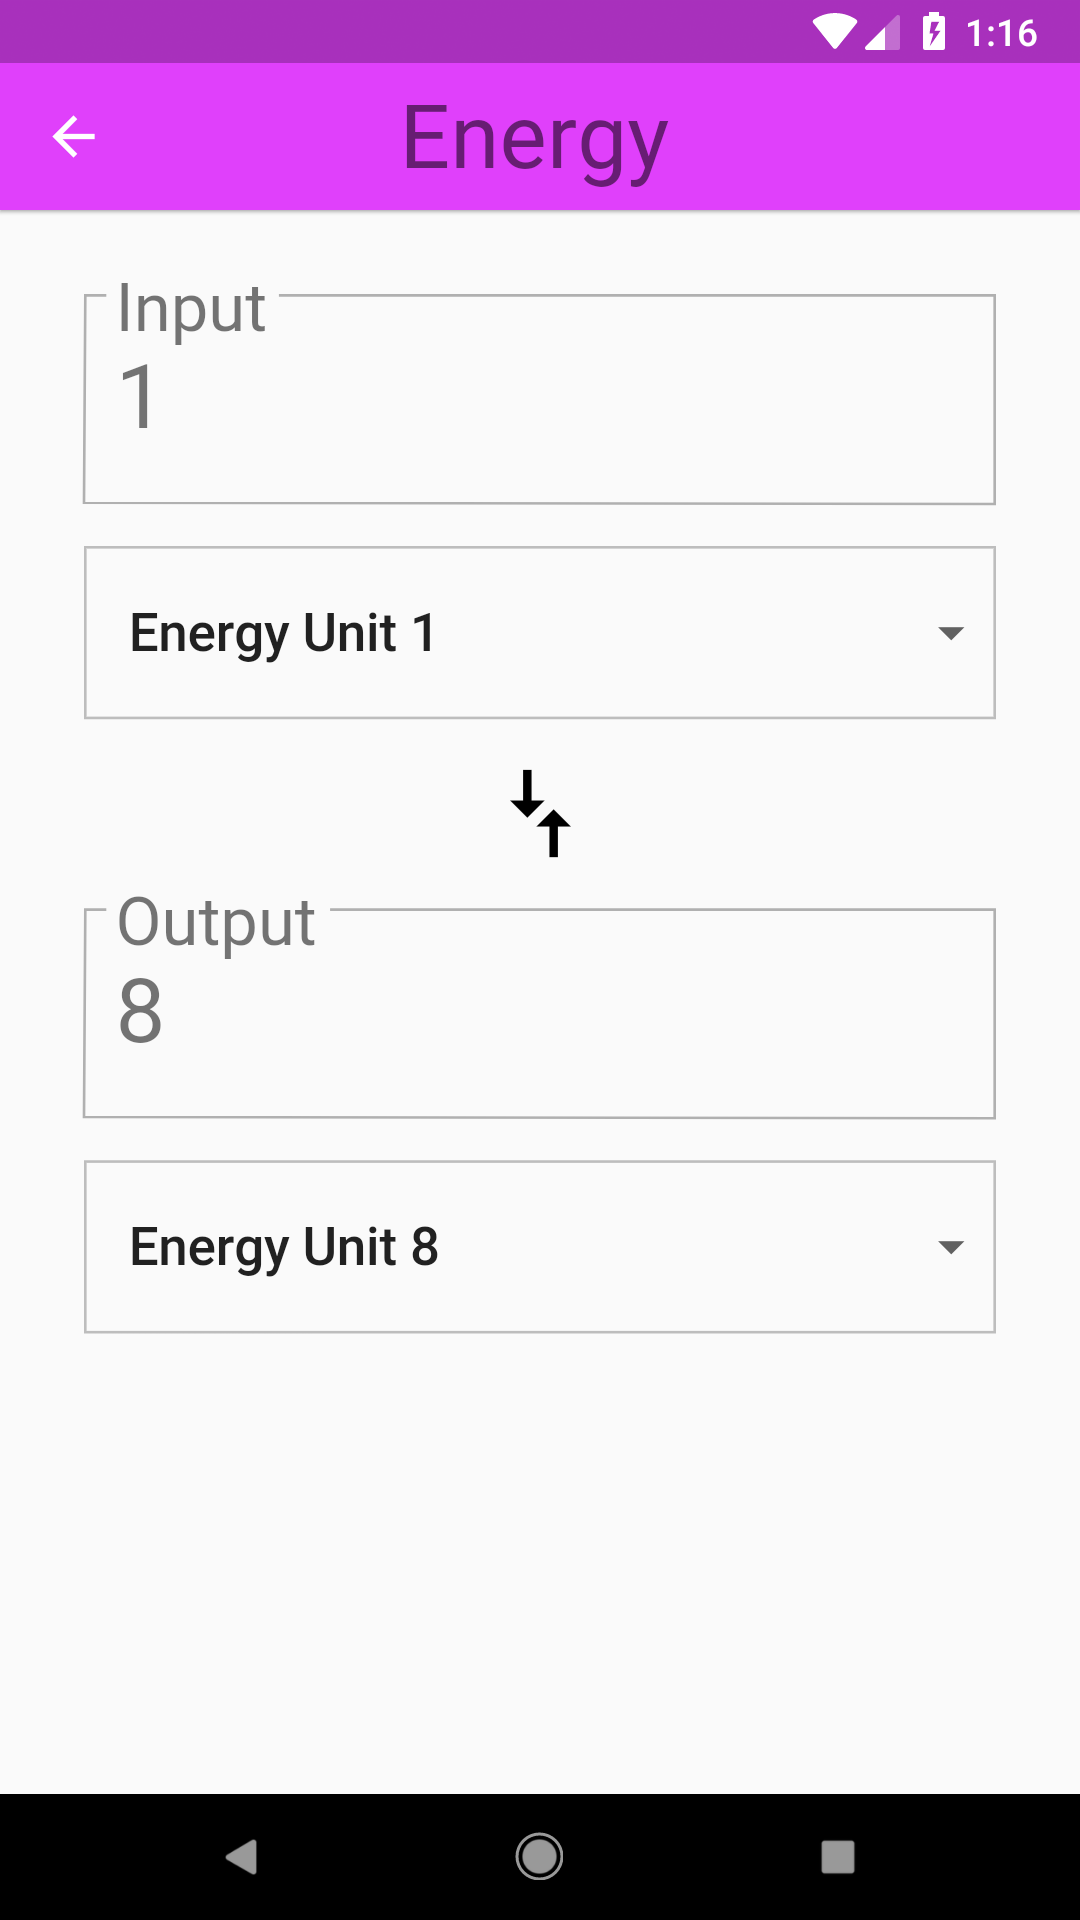
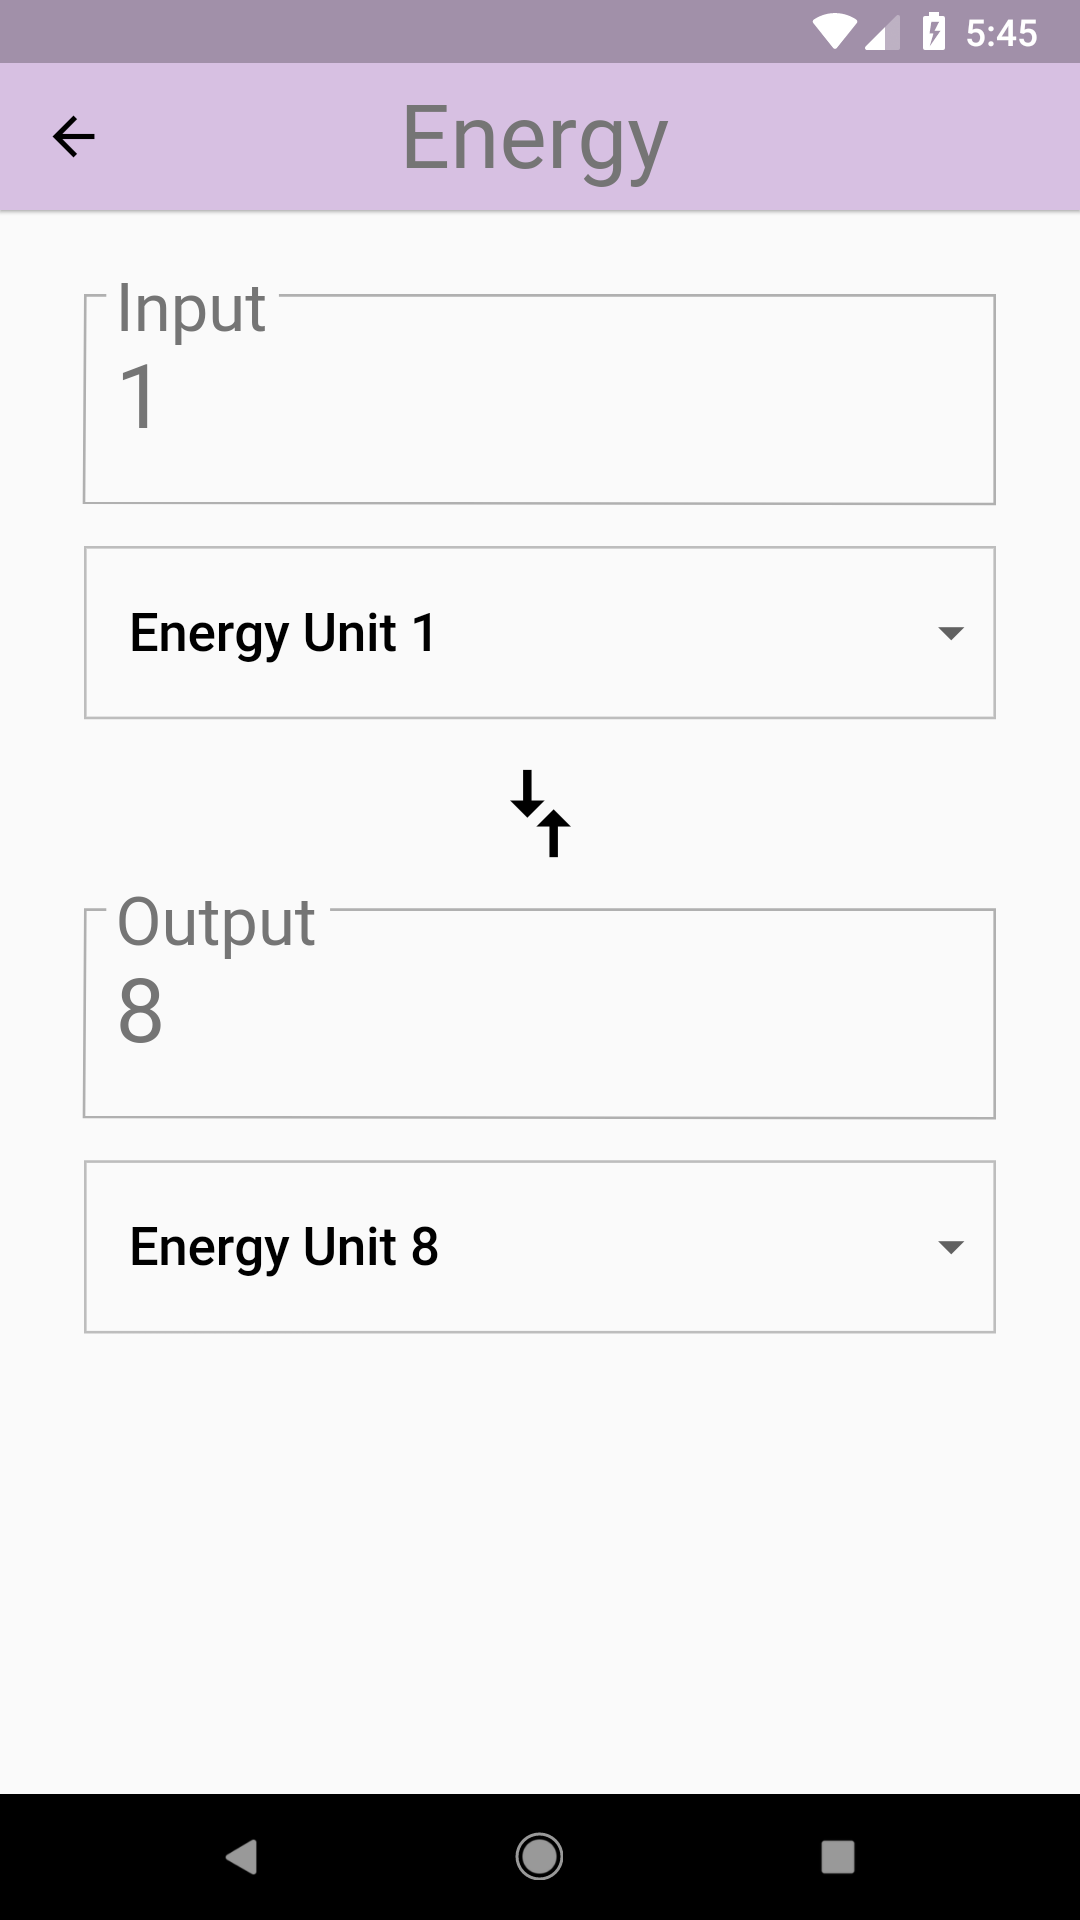
move some tasks from 07 to 06

Changed region(s): [[0.0, 0.0, 1.0, 0.125], [0.1222, 0.625, 0.3972, 0.6875], [0.1222, 0.3125, 0.3972, 0.3438]]

diff --git a/course/06_input/solution_06_input/lib/category_route.dart b/course/06_input/solution_06_input/lib/category_route.dart
@@ -22,7 +22,6 @@ class CategoryRoute extends StatefulWidget {
 
 class _CategoryRouteState extends State<CategoryRoute> {
   final _categories = <Category>[];
-
   static const _categoryNames = <String>[
     'Length',
     'Area',
@@ -33,16 +32,40 @@ class _CategoryRouteState extends State<CategoryRoute> {
     'Energy',
     'Currency',
   ];
-
-  static const _baseColors = <Color>[
-    Colors.teal,
-    Colors.orange,
-    Colors.pinkAccent,
-    Colors.blueAccent,
-    Colors.yellow,
-    Colors.greenAccent,
-    Colors.purpleAccent,
-    Colors.red,
+  static const _baseColors = <ColorSwatch>[
+    ColorSwatch(0xFF6AB7A8, {
+      'highlight': Color(0xFF6AB7A8),
+      'splash': Color(0xFF0ABC9B),
+    }),
+    ColorSwatch(0xFFFFD28E, {
+      'highlight': Color(0xFFFFD28E),
+      'splash': Color(0xFFFFA41C),
+    }),
+    ColorSwatch(0xFFFFB7DE, {
+      'highlight': Color(0xFFFFB7DE),
+      'splash': Color(0xFFF94CBF),
+    }),
+    ColorSwatch(0xFF8899A8, {
+      'highlight': Color(0xFF8899A8),
+      'splash': Color(0xFFA9CAE8),
+    }),
+    ColorSwatch(0xFFEAD37E, {
+      'highlight': Color(0xFFEAD37E),
+      'splash': Color(0xFFFFE070),
+    }),
+    ColorSwatch(0xFF81A56F, {
+      'highlight': Color(0xFF81A56F),
+      'splash': Color(0xFF7CC159),
+    }),
+    ColorSwatch(0xFFD7C0E2, {
+      'highlight': Color(0xFFD7C0E2),
+      'splash': Color(0xFFCA90E5),
+    }),
+    ColorSwatch(0xFFCE9A9A, {
+      'highlight': Color(0xFFCE9A9A),
+      'splash': Color(0xFFF94D56),
+      'error': Color(0xFF912D2D),
+    }),
   ];
 
   @override

diff --git a/course/06_input/task_06_input/lib/category_route.dart b/course/06_input/task_06_input/lib/category_route.dart
@@ -22,7 +22,6 @@ class CategoryRoute extends StatefulWidget {
 
 class _CategoryRouteState extends State<CategoryRoute> {
   final _categories = <Category>[];
-
   static const _categoryNames = <String>[
     'Length',
     'Area',
@@ -33,16 +32,40 @@ class _CategoryRouteState extends State<CategoryRoute> {
     'Energy',
     'Currency',
   ];
-
-  static const _baseColors = <Color>[
-    Colors.teal,
-    Colors.orange,
-    Colors.pinkAccent,
-    Colors.blueAccent,
-    Colors.yellow,
-    Colors.greenAccent,
-    Colors.purpleAccent,
-    Colors.red,
+  static const _baseColors = <ColorSwatch>[
+    ColorSwatch(0xFF6AB7A8, {
+      'highlight': Color(0xFF6AB7A8),
+      'splash': Color(0xFF0ABC9B),
+    }),
+    ColorSwatch(0xFFFFD28E, {
+      'highlight': Color(0xFFFFD28E),
+      'splash': Color(0xFFFFA41C),
+    }),
+    ColorSwatch(0xFFFFB7DE, {
+      'highlight': Color(0xFFFFB7DE),
+      'splash': Color(0xFFF94CBF),
+    }),
+    ColorSwatch(0xFF8899A8, {
+      'highlight': Color(0xFF8899A8),
+      'splash': Color(0xFFA9CAE8),
+    }),
+    ColorSwatch(0xFFEAD37E, {
+      'highlight': Color(0xFFEAD37E),
+      'splash': Color(0xFFFFE070),
+    }),
+    ColorSwatch(0xFF81A56F, {
+      'highlight': Color(0xFF81A56F),
+      'splash': Color(0xFF7CC159),
+    }),
+    ColorSwatch(0xFFD7C0E2, {
+      'highlight': Color(0xFFD7C0E2),
+      'splash': Color(0xFFCA90E5),
+    }),
+    ColorSwatch(0xFFCE9A9A, {
+      'highlight': Color(0xFFCE9A9A),
+      'splash': Color(0xFFF94D56),
+      'error': Color(0xFF912D2D),
+    }),
   ];
 
   @override

diff --git a/course/06_input/solution_06_input/lib/main.dart b/course/06_input/solution_06_input/lib/main.dart
@@ -25,6 +25,15 @@ class UnitConverterApp extends StatelessWidget {
     return MaterialApp(
       debugShowCheckedModeBanner: false,
       title: 'Unit Converter',
+      theme: ThemeData(
+        textTheme: Theme.of(context).textTheme.apply(
+              bodyColor: Colors.black,
+              displayColor: Colors.grey[600],
+            ),
+        // This colors the [InputOutlineBorder] when it is selected
+        primaryColor: Colors.grey[500],
+        textSelectionHandleColor: Colors.green[500],
+      ),
       home: CategoryRoute(),
     );
   }

diff --git a/course/06_input/solution_06_input/lib/category.dart b/course/06_input/solution_06_input/lib/category.dart
@@ -87,8 +87,8 @@ class Category extends StatelessWidget {
         height: _rowHeight,
         child: InkWell(
           borderRadius: _borderRadius,
-          highlightColor: color,
-          splashColor: color,
+          highlightColor: color['highlight'],
+          splashColor: color['splash'],
           // We can use either the () => function() or the () { function(); }
           // syntax.
           onTap: () => _navigateToConverter(context),

diff --git a/course/06_input/task_06_input/lib/category.dart b/course/06_input/task_06_input/lib/category.dart
@@ -87,6 +87,7 @@ class Category extends StatelessWidget {
         height: _rowHeight,
         child: InkWell(
           borderRadius: _borderRadius,
+          // TODO: Use the highlight and splash colors from the ColorSwatch
           highlightColor: color,
           splashColor: color,
           // We can use either the () => function() or the () { function(); }

diff --git a/course/06_input/task_06_input/lib/main.dart b/course/06_input/task_06_input/lib/main.dart
@@ -25,6 +25,7 @@ class UnitConverterApp extends StatelessWidget {
     return MaterialApp(
       debugShowCheckedModeBanner: false,
       title: 'Unit Converter',
+      // TODO: Fill out the theme parameter
       home: CategoryRoute(),
     );
   }

diff --git a/course/07_backdrop/task_07_backdrop/README.md b/course/07_backdrop/task_07_backdrop/README.md
@@ -8,8 +8,7 @@
  2. Fill out the TODOs in `category_route.dart`. Specifically, you'll be using the provided Backdrop widget.
  3. Fill out the TODOs in `category_tile.dart` using the specs below. You'll remove the Navigator code since the Backdrop is now responsible for showing and hiding the unit conversion view. The CategoryTile widget takes in an onTap function, and you should use it to bring up the unit conversion view.
  4. Note that with the Backdrop, the units never change in the Dropdowns, when you switch Categories. This is because the DropdownMenuItems are only being set in initState(), which is only being called once per app start. You'll want to also set the DropdownMenuItems, and the defaults, each time the user switches Categories. Resolve this within `unit_converter.dart`.
- 5. Update the Theme in `main.dart`.
- 6. You may see some black and yellow overflow lines, accompanied by a message regarding RenderFlex. This is fine, as we'll resolve this in the next coding exercise.
+ 5. You may see some black and yellow overflow lines, accompanied by a message regarding RenderFlex. This is fine, as we'll resolve this in the next coding exercise.
 
 ## Specs
  - The default Category is 'Length'; when you open the app, the unit converter for 'Length' will already be showing.

diff --git a/course/06_input/solution_06_input/README.md b/course/06_input/solution_06_input/README.md
@@ -6,6 +6,7 @@
 ## Steps
  1. Fill out the TODOs in `converter_route.dart` using the specs below.
  2. Use the helper function provided to aid in the conversions. You'll likely have to add more. Remember to set the state!
+ 3. Update the Theme in `main.dart`, and the colors in `category.dart`.
 
 ## Specs
  - The 'input' group is composed of a TextField and a Dropdown for the 'From' unit. This group has a Padding of 16.0.
@@ -17,6 +18,9 @@
  - Dropdowns have a vertical 8.0 Padding.
  - Add a 'Compare Arrows' icon between the dropdowns. This is the Material Icon named 'compare arrows'. The arrows are sized 40.0.
  - The entire user input section is wrapped in 16.0 Padding.
+ - A Category's highlight and splash colors should be retrieved from its ColorSwatch.
+ - Set the ThemeData's textTheme to have a body color of black, and a display color of Colors.grey[600].
+ - The ThemeData's primaryColor should be Colors.grey[500].
 
 ## Customizations
  - Style the input/output boxes and dropdowns. Consider colors, border radius, padding, text themes, etc.

diff --git a/course/06_input/task_06_input/README.md b/course/06_input/task_06_input/README.md
@@ -6,6 +6,7 @@
 ## Steps
  1. Fill out the TODOs in `converter_route.dart` using the specs below.
  2. Use the helper function provided to aid in the conversions. You'll likely have to add more. Remember to set the state!
+ 3. Update the Theme in `main.dart`, and the colors in `category.dart`.
 
 ## Specs
  - The 'input' group is composed of a TextField and a Dropdown for the 'From' unit. This group has a Padding of 16.0.
@@ -17,6 +18,9 @@
  - Dropdowns have a vertical 8.0 Padding.
  - Add a 'Compare Arrows' icon between the dropdowns. This is the Material Icon named 'compare arrows'. The arrows are sized 40.0.
  - The entire user input section is wrapped in 16.0 Padding.
+ - A Category's highlight and splash colors should be retrieved from its ColorSwatch.
+ - Set the ThemeData's textTheme to have a body color of black, and a display color of Colors.grey[600].
+ - The ThemeData's primaryColor should be Colors.grey[500].
 
 ## Customizations
  - Style the input/output boxes and dropdowns. Consider colors, border radius, padding, text themes, etc.
